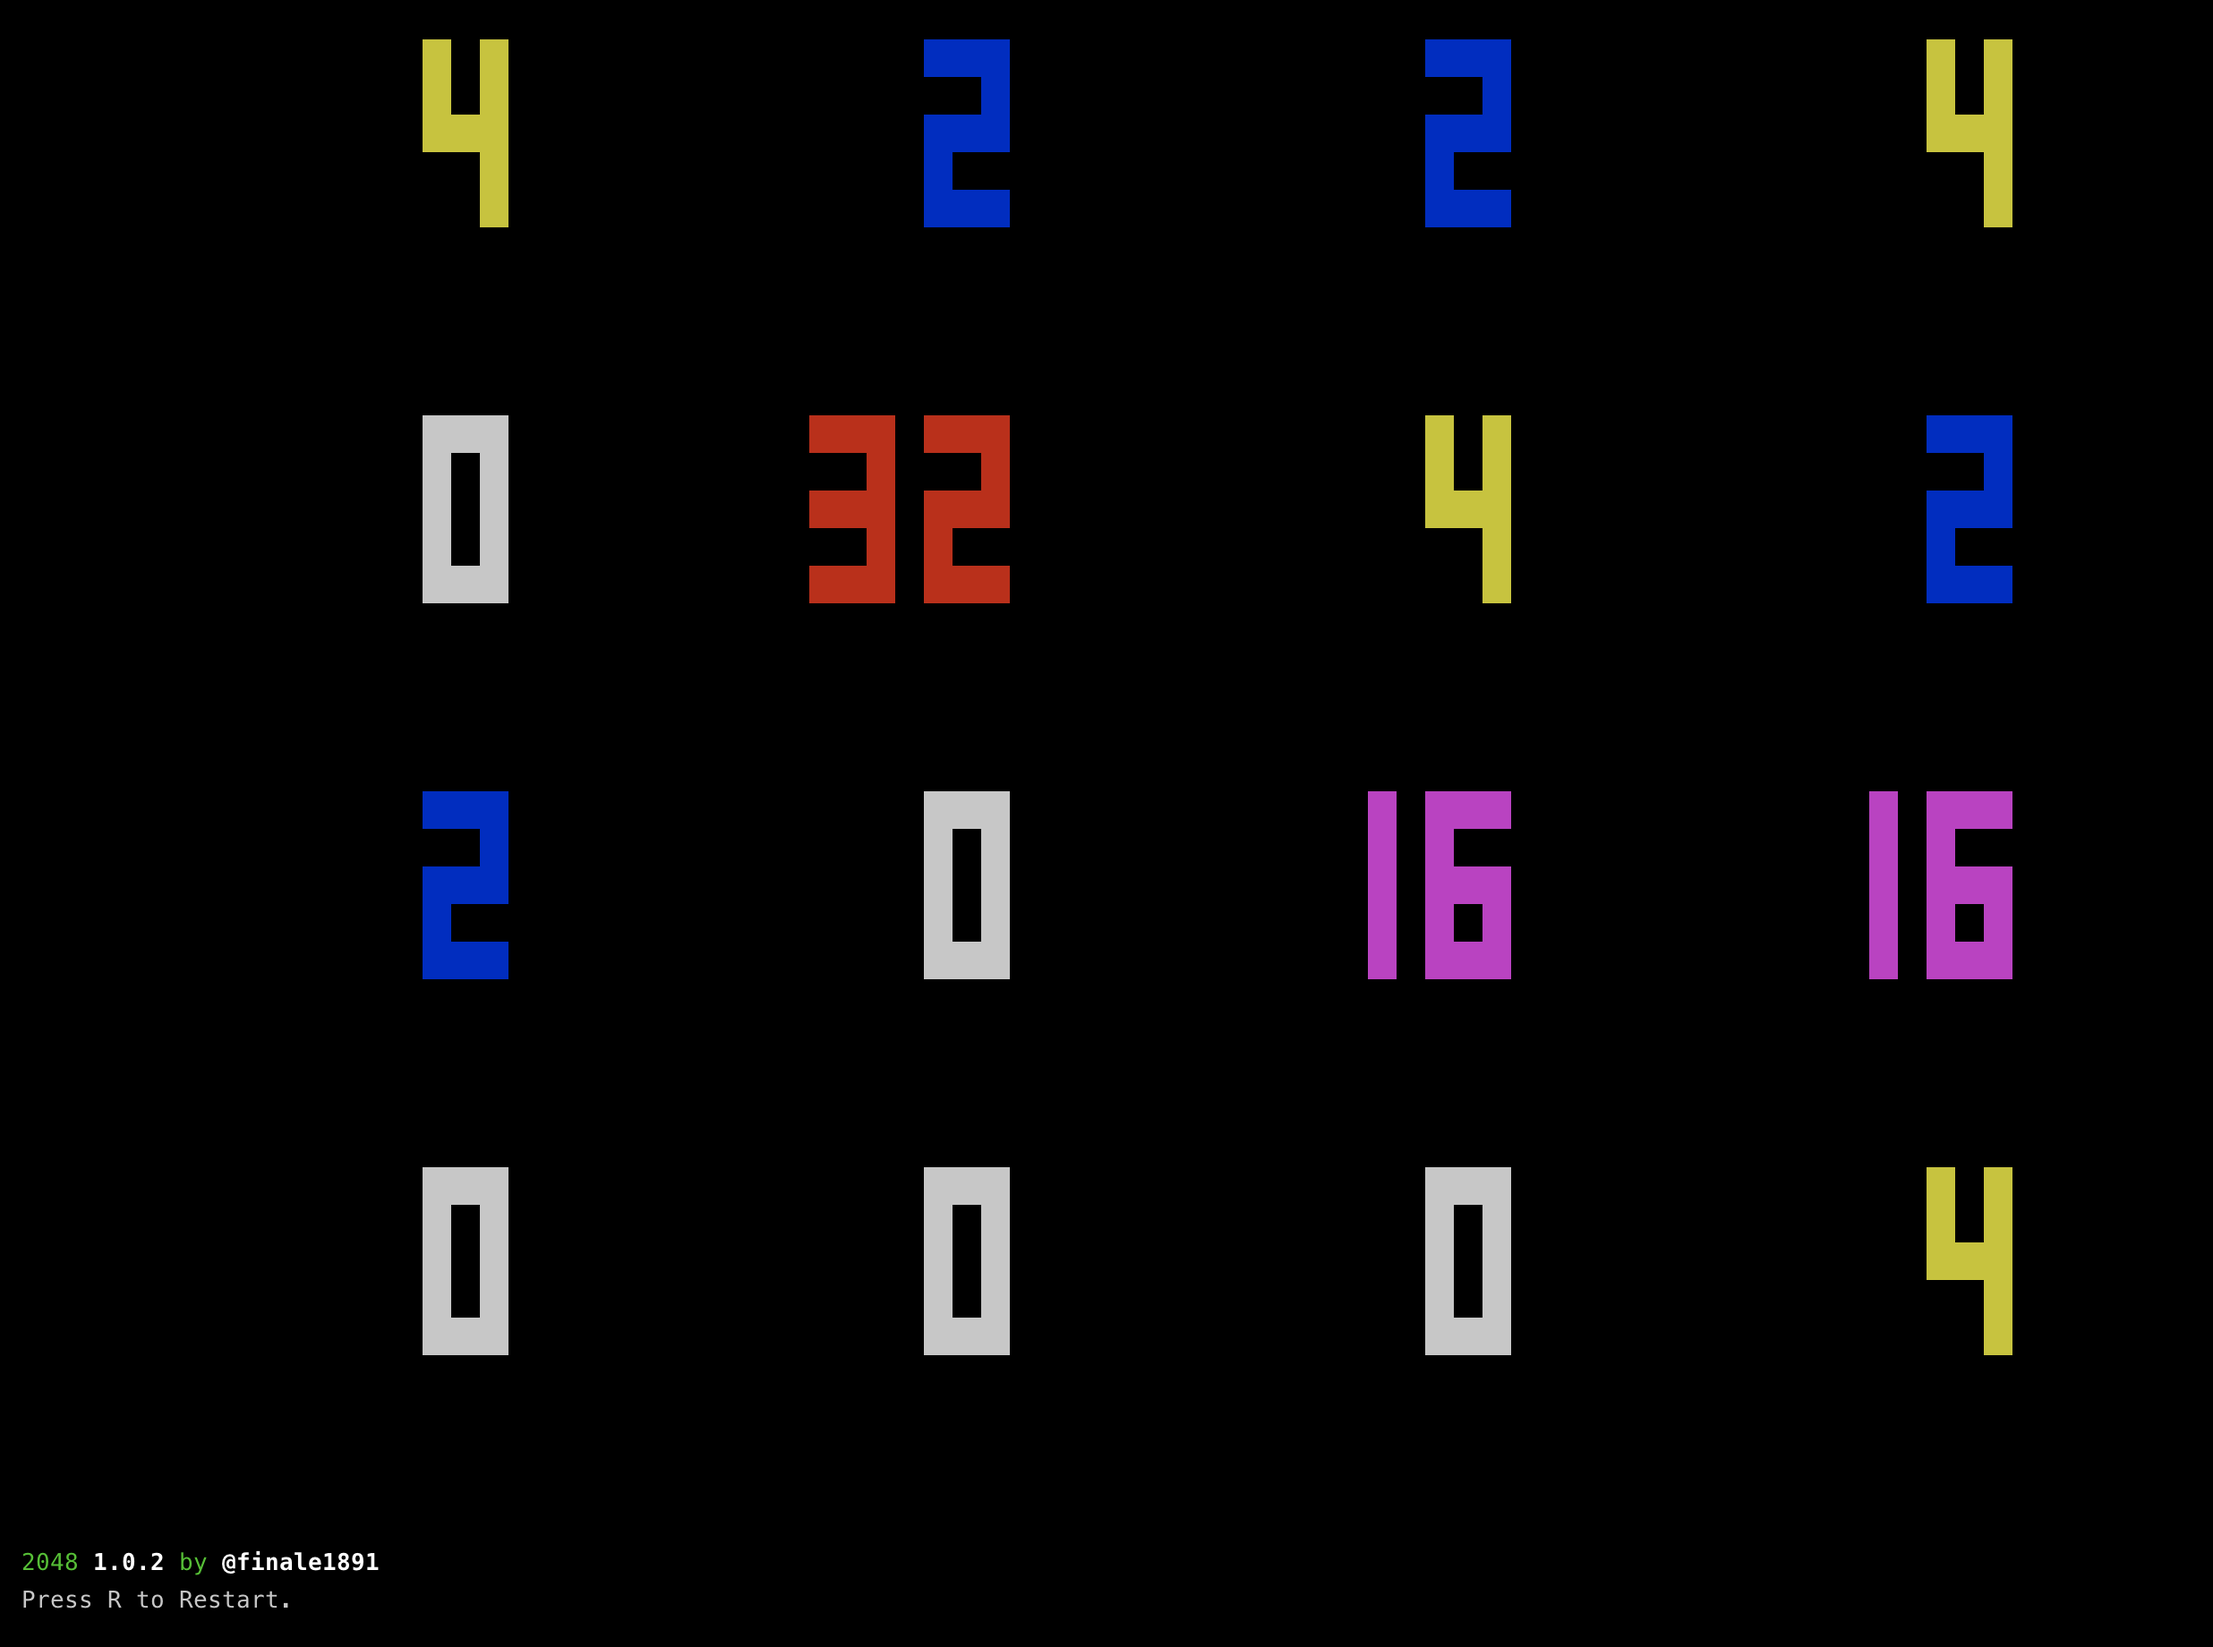
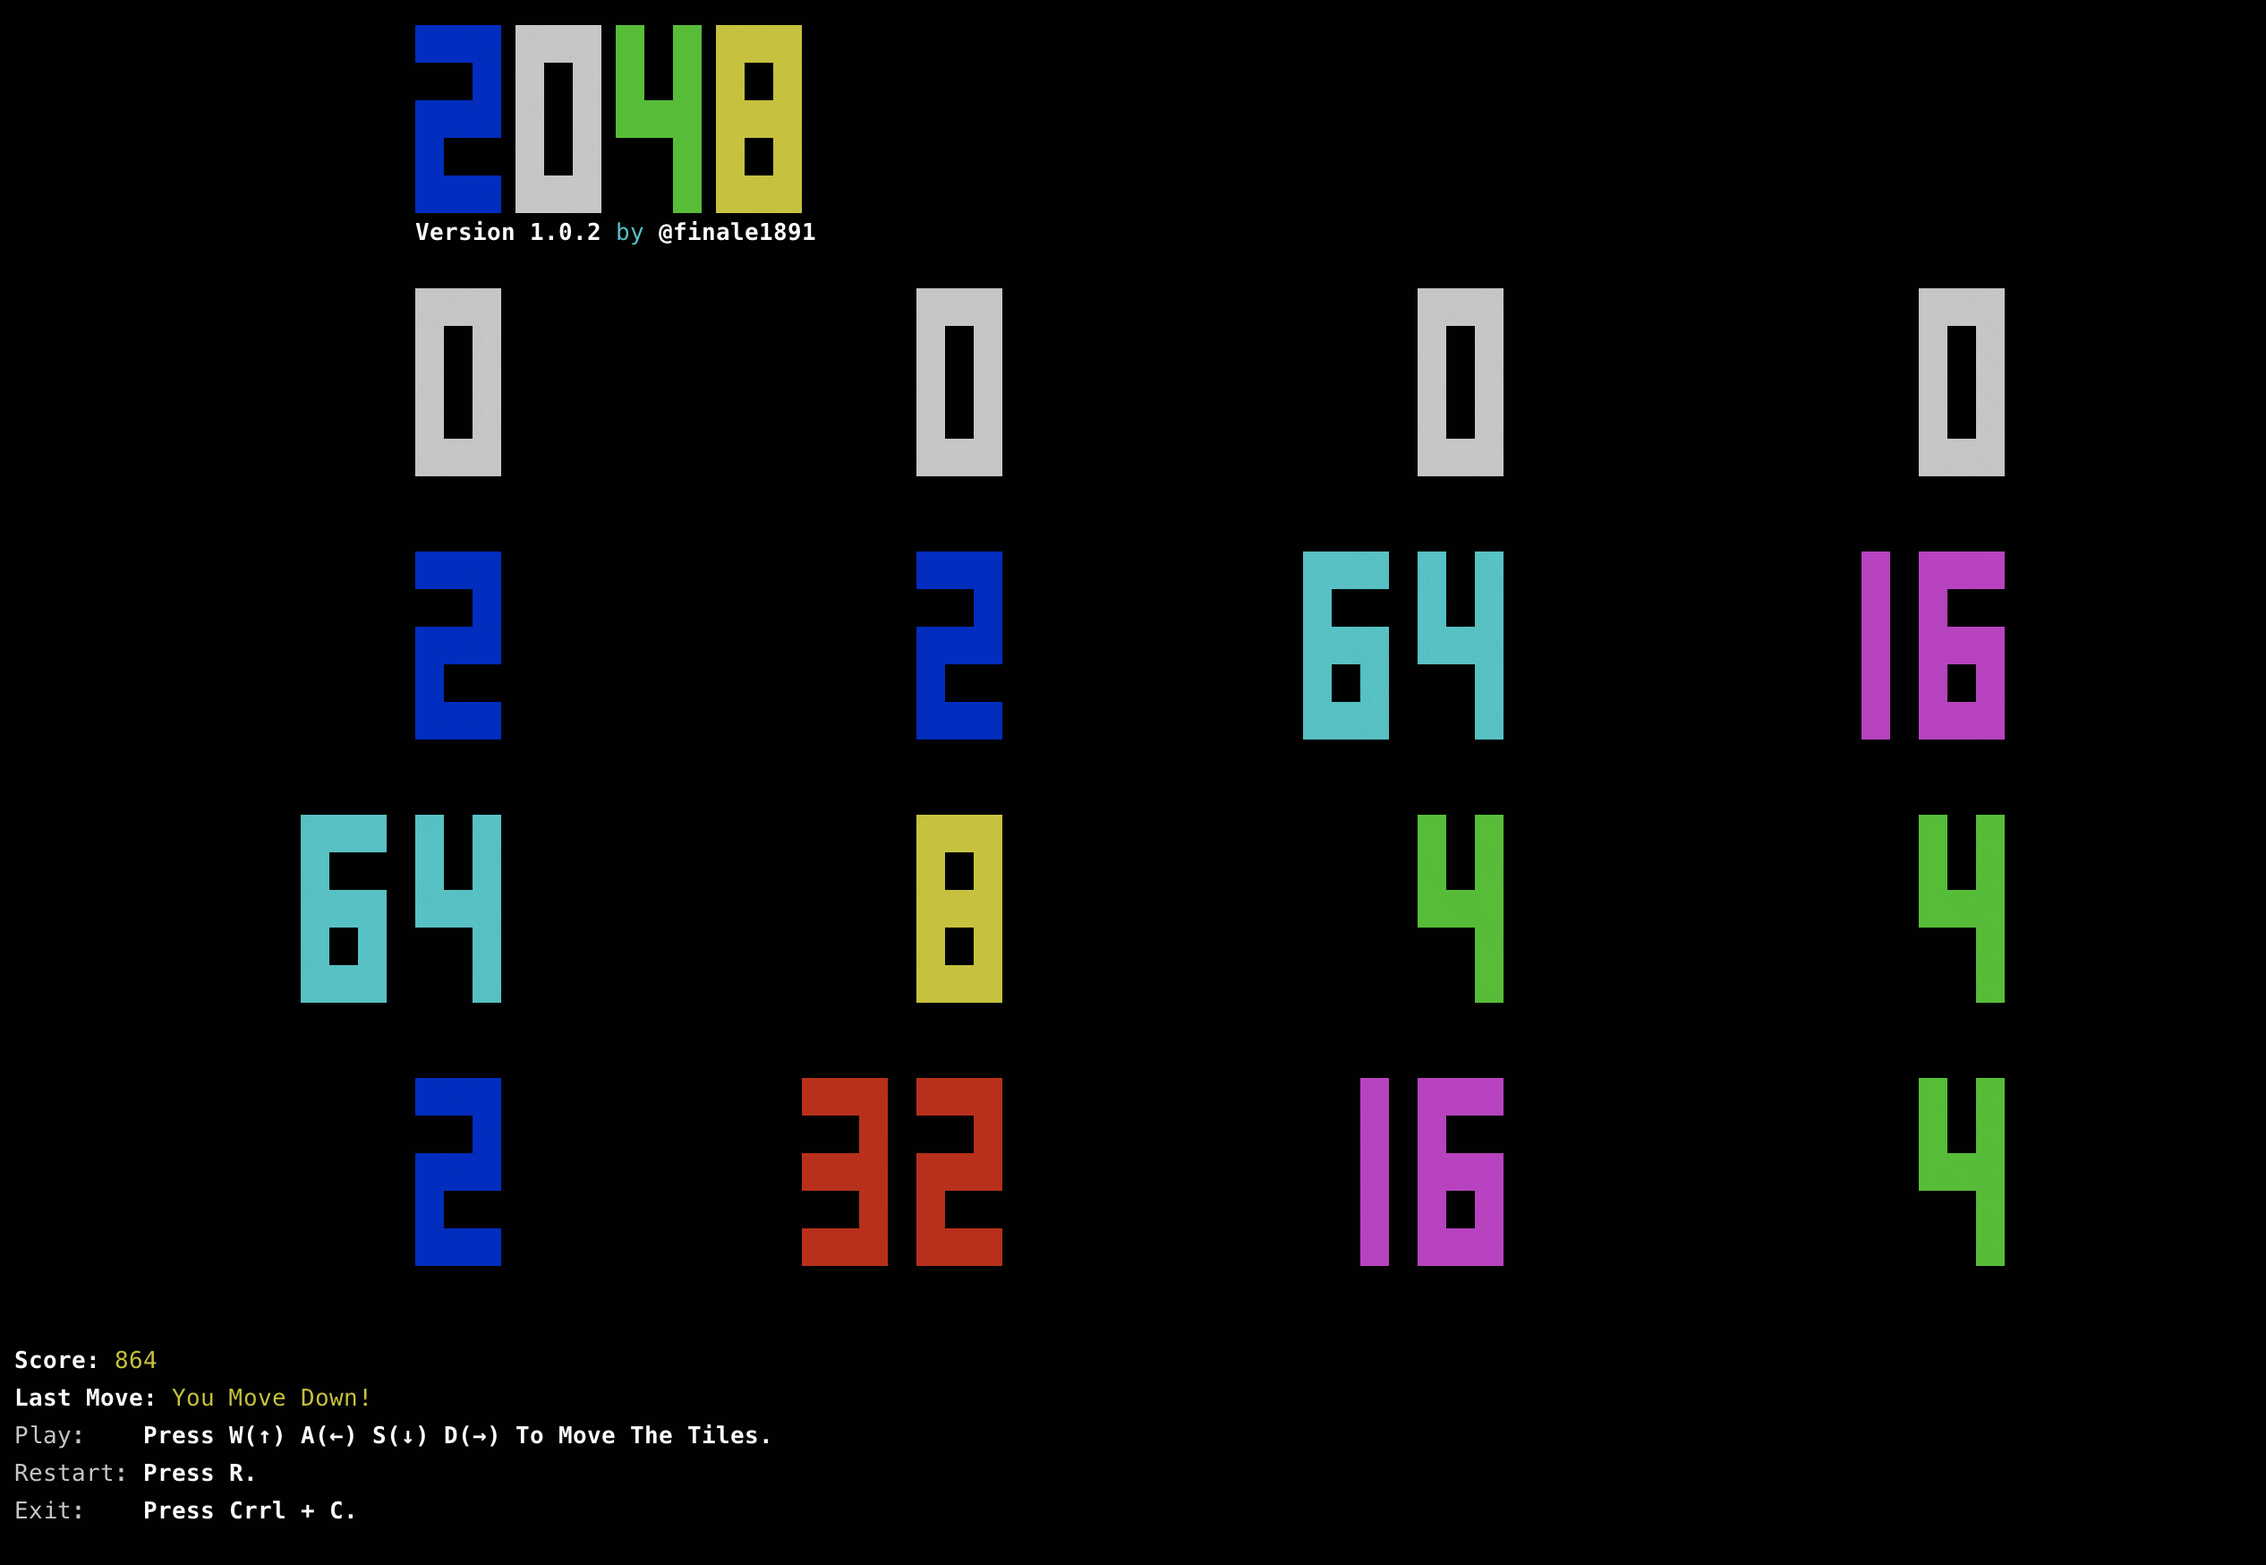
feat: update scoring, play instructions and titles

diff --git a/src/components/Board.js b/src/components/Board.js
@@ -3,15 +3,16 @@ const { Direction, GameStatus, BoardNumber } = require("../utils/types");
 const { getDigitsDrawing } = require("../utils/drawing");
 const Block = require("./Block");
 
-
 class Board {
   clivas = null;
   board = null;
   level = null;
   verticalBoard = null;
+  score = 0;
+  gameLog = '';
   gameStatus = GameStatus.PREPARE;
   startFill = 2;
-  appearFour = 0.2;
+  appearFour = 0.5;
 
   constructor(level, clivas) {
     this.clivas = clivas;
@@ -36,6 +37,7 @@ class Board {
     this._dropNumber(2);
     this._getVerticalChains();
     this.gameStatus = GameStatus.PLAY;
+    this.log('Let The Game Begin!');
   }
 
   _checkGameWon() {
@@ -44,19 +46,28 @@ class Board {
       if (this.board[i][j].getValue() === BoardNumber['11']) {
         res = true
         this.gameStatus = GameStatus.WON;
+        this.log("You Won !!!")
       }
     })
     return res;
   }
 
   _checkGameLose() {
-    let res = true;
+    let res = false;
     this._iterateBoard((i, j) => {
-      if (this.board[i][j].getValue() !== BoardNumber['0']) {
-        res = false;
-      }
+      // check valid move up
+      const curValue = this.board[i][j].getValue();
+      if (curValue === BoardNumber['0']) res = true;
+      if (i > 0 && this.board[i - 1][j].getValue() === curValue) res = true;
+      if (i < this.level - 1 && this.board[i + 1][j].getValue() === curValue) res = true;
+      if (j > 0 && this.board[i][j - 1].getValue() === this.board[i][j]) res = true;
+      if (j < this.level - 1 && this.board[i][j + 1].getValue() === curValue) res = true;
     });
-    if (res) this.gameStatus = GameStatus.LOST;
+
+    if (!res) {
+      this.gameStatus = GameStatus.LOST;
+      this.log("You Lost. Press R to Restart.")
+    }
     return res;
   }
 
@@ -110,6 +121,7 @@ class Board {
           if (blockArr[i].getValue() === blockArr[j].getValue()) {
             // merge j to i
             blockArr[i].merge(blockArr[j]);
+            this.score += blockArr[i].getValue();
             blockArr[j].clear();
             j++;
             validMove = true;
@@ -141,8 +153,24 @@ class Board {
 
   draw() {
     clivas.clear();
+    clivas.flush();
+    
+    const str = '2048';
+    for (let z = 0; z < 5; z++) {
+      let padding = "                            ";
+      for (let x = 0; x < str.length; x++) {
+        // let padding = "                            ";
+        const lineDrawing = getDigitsDrawing(new Number(str[x]));
+        if (lineDrawing[z]) padding += lineDrawing[z];
+        
+      }
+      clivas.line(padding);
+    }
+    clivas.line("                            " + ' {bold:Version '+require('../../package.json').version+'} {cyan:by} {bold:@finale1891}');
+    clivas.line('');
+
     for (let i = 0; i < this.level; i++) {
-      for (let z = 0; z < 10; z++) {
+      for (let z = 0; z < 7; z++) {
         let padding = "";
         for (let j = 0; j < this.level; j++) {
           let space;
@@ -163,46 +191,64 @@ class Board {
         clivas.line(padding);
       }
     }
+
+    clivas.line(` {bold:Score:} {yellow:${this.score}}`);
+    clivas.line(` {bold:Last Move:} {yellow:${this.log()}}`);
+    clivas.line(' {white:Play:}    {bold:Press W(↑) A(←) S(↓) D(→) To Move The Tiles.}');
+    clivas.line(' {white:Restart:} {bold:Press R.}');
+    clivas.line(' {white:Exit:}    {bold:Press Crrl + C.}');
   }
 
   move(direction) {
+    if (this.gameStatus !== GameStatus.PLAY) return;
+    if (!direction in Direction) return;
+
     let validMove = false;
 
-    if (this.gameStatus === GameStatus.END) throw "Game has ended";
-    if (!direction in Direction) throw "Invalid move";
     switch (direction) {
       case Direction.UP:
         this.verticalBoard.forEach(chain => {
           if (this._absorbChain(chain)) validMove = true;
         })
+        validMove ? this.log("You Move Up!") : this.log("Invalid Move!");
         break;
       case Direction.LEFT:
         this.board.forEach(chain => {
           if (this._absorbChain(chain)) validMove = true;
         })
+        validMove ? this.log("You Move Left!") : this.log("Invalid Move!");
         break;
       case Direction.DOWN:
         this.verticalBoard.forEach(chain => {
           if (this._absorbChain(chain.reverse())) validMove = true;
           chain.reverse();
         })
+        validMove ? this.log("You Move Down!") : this.log("Invalid Move!");
         break;
       case Direction.RIGHT:
         this.board.forEach(chain => {
           if (this._absorbChain(chain.reverse())) validMove = true;
           chain.reverse();
         })
+        validMove ? this.log("You Move Right!") : this.log("Invalid Move!");
         break;
     }
 
     this.checkGameStatus();
-
-    if (this.gameStatus !== GameStatus.PLAY) throw this.gameStatus;
+    if (this.gameStatus !== GameStatus.PLAY) return;
     if (validMove) this._dropNumber(1);
     this.draw();
   }
 
+  log(str) {
+    const res = this.gameLog;
+    this.gameLog = str;
+    return res;
+  }
+
   restart() {
+    this.gameLog = '';
+    this.score = 0;
     this._createBoard();
     this._initBoard();
     this.draw();

diff --git a/src/index.js b/src/index.js
@@ -1,38 +1,24 @@
 #!/usr/bin/env node
 const clivas = require('clivas');
 const keypress = require('keypress');
-const { Direction, BoardNumber } = require('./utils/types');
+const { Direction, BoardNumber, GameStatus } = require('./utils/types');
 const Board = require('./components/Board');
 
 const startGame = (level) => {
-
-  var WIDTH = 25;
-  var HEIGHT = 20;
   
-  const restart = () => {
-    board.restart();
-  }
-  
+  const restart = () => board.restart();
   const handleMove = (direction) => {
-    try {
-      board.move(direction);
-    } catch(e) {
-      console.log("Move Error: ", e);
-    }
+    board.move(direction);
+    // if (board.gameStatus === GameStatus.WON) return process.exit(0);
   }
 
   const draw = () => {
-    clivas.alias('box-color', 'inverse+cyan');
-    clivas.alias('full-width', 4 * WIDTH + 15);
     clivas.flush(false);
     clivas.cursor(false);
-    'white blue yellow green magenta red cyan'.split(' ').forEach(function(color, i) {
+    'white blue green yellow magenta red cyan'.split(' ').forEach(function(color, i) {
       clivas.alias('color-'+i, '2+inverse+'+color);
     });
-  
     board.draw();
-    clivas.line(' {green:2048} {bold:'+require('../package.json').version+'} {green:by} {bold:@finale1891}');
-    clivas.line(' Press R to Restart.');
   }
 
   const handleKeyPress = () => {
@@ -40,10 +26,10 @@ const startGame = (level) => {
 
     process.stdin.on("keypress", (ch, key) => {
       if (key.name === 'c' && key.ctrl) return process.exit(0);
-      if (key.name === 'w') handleMove(Direction.UP);
-      if (key.name === 'a') handleMove(Direction.LEFT);
-      if (key.name === 's') handleMove(Direction.DOWN);
-      if (key.name === 'd') handleMove(Direction.RIGHT);
+      if (key.name === 'w' || key.name === 'up') handleMove(Direction.UP);
+      if (key.name === 'a' || key.name === 'left') handleMove(Direction.LEFT);
+      if (key.name === 's' || key.name === 'down') handleMove(Direction.DOWN);
+      if (key.name === 'd' || key.name === 'right') handleMove(Direction.RIGHT);
       if (key.name === 'r') restart();
     })  
     

diff --git a/src/utils/drawing.js b/src/utils/drawing.js
@@ -62,15 +62,15 @@ const Digits = [
     ]
 ]
 
-const getDigitsDrawing = (number) => {
-  const color = (Math.log2(number) % 7 )| 0;
+const getDigitsDrawing = (number, givenColor) => {
+  const color = givenColor | (Math.log2(number) % 7 )| 0;
   return (number.toString()).split('').map(function(d) {
     var num = Digits[d];
     return num;
   }).reduce(function(result, value) {
     value.forEach(function(line, i) {
       result[i] = (result[i] ? result[i] + ' ' : '');
-      result[i] += ' '+line.replace(/x/g, '{2+color-'+color+'}').replace(/ /g, '  ');
+      result[i] += ' '+line.replace(/x/g, '{color-'+color+'}').replace(/ /g, '  ');
     });
     return result;
   }, []);

diff --git a/src/components/Block.js b/src/components/Block.js
@@ -18,9 +18,7 @@ class Block {
   }
 
   updateValue(value) {
-    if (value === this.value) return false;
     this.value = value;
-    return true;
   }
 
   merge(block) {
